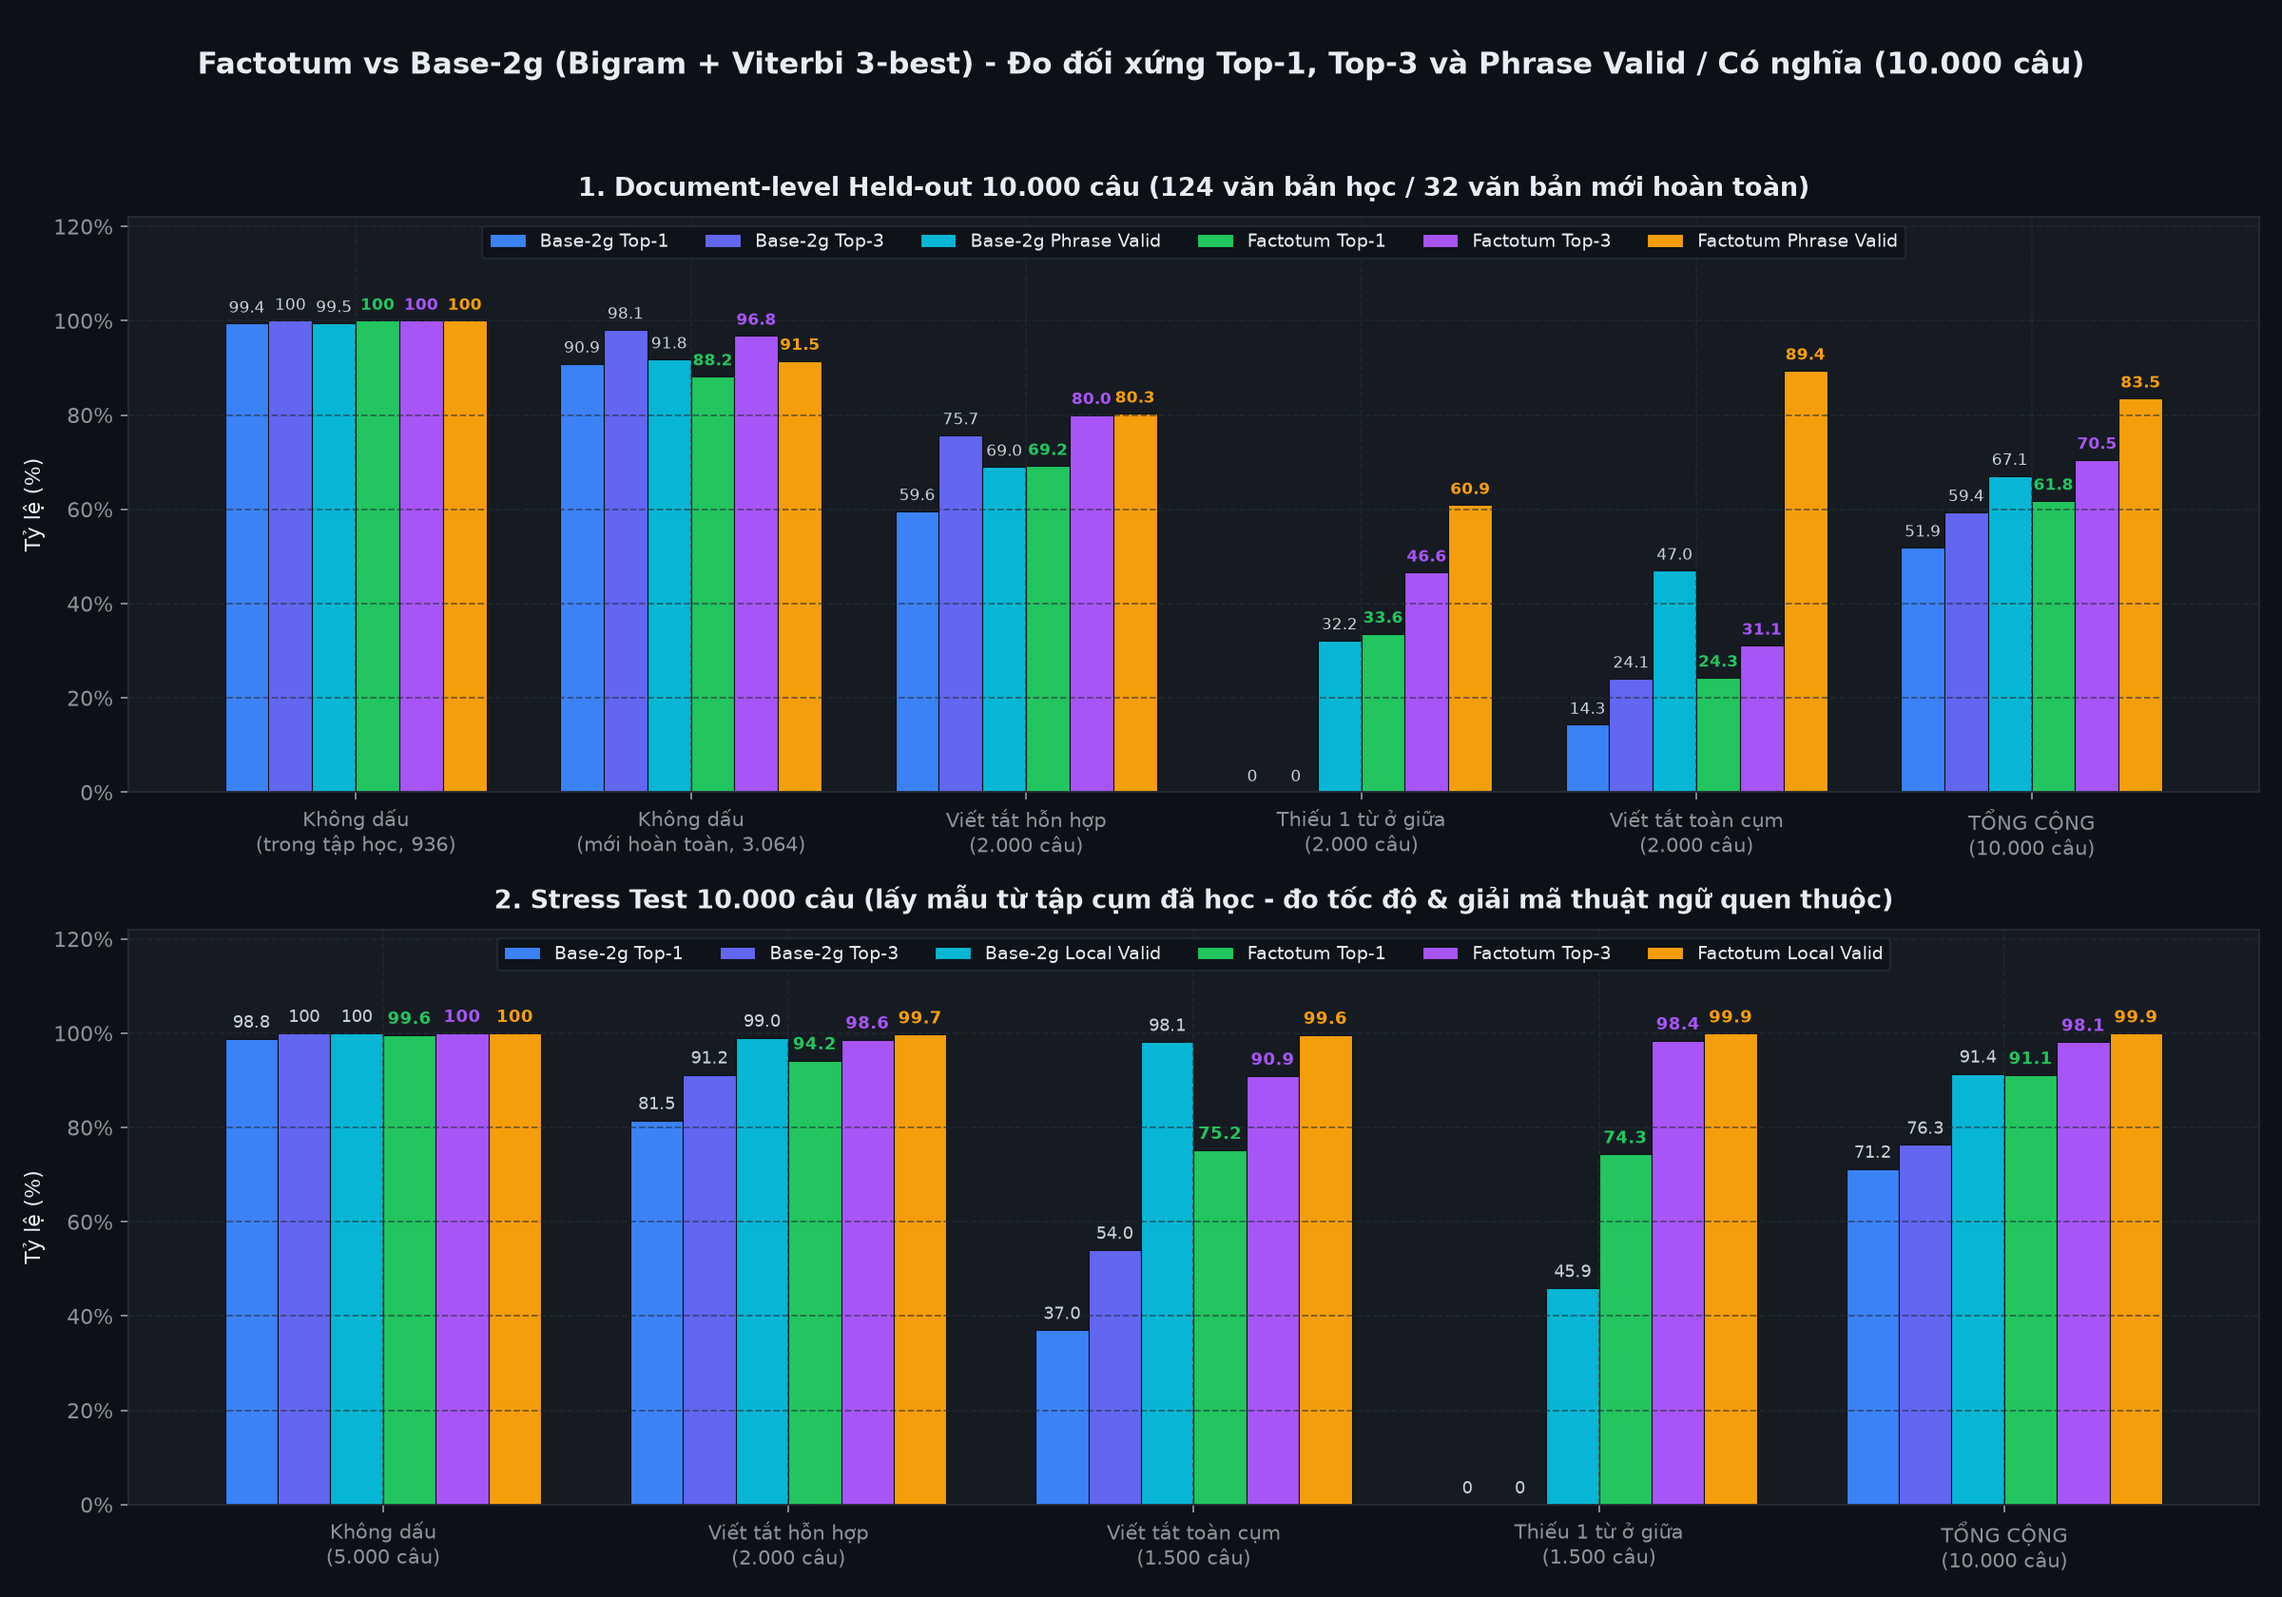
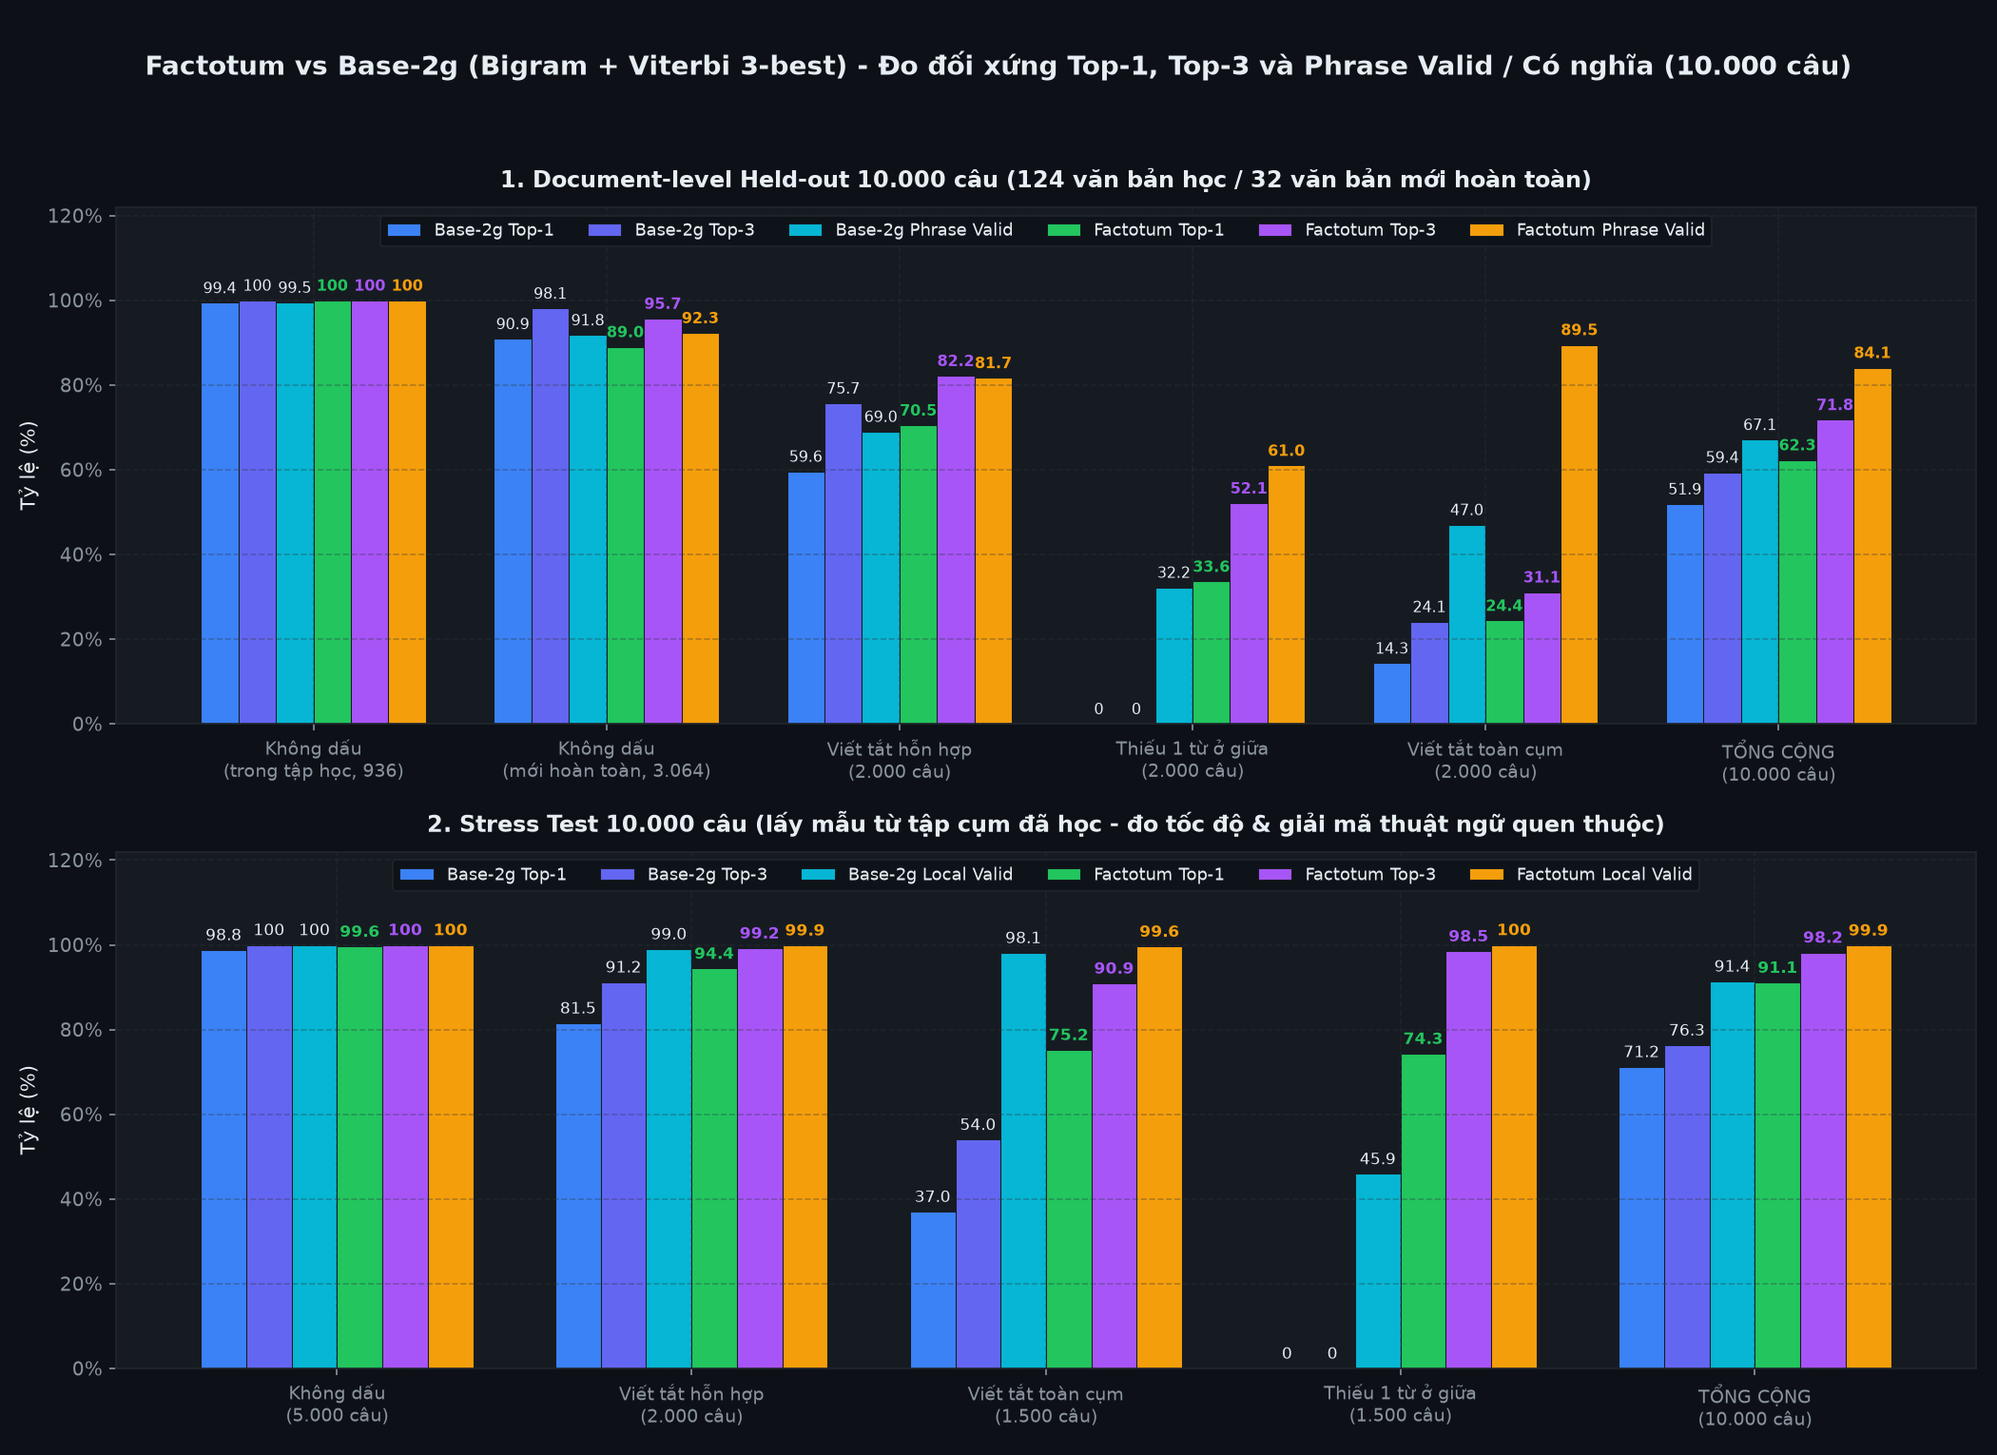
Sync README LLM comparison, 3 benchmark charts, and CHANGELOG v1.1.0

diff --git a/README.md b/README.md
@@ -231,14 +231,14 @@ Rút `1.000` câu độc nhất từ 32 văn bản kiểm tra chưa từng học
 
 | Nhóm câu hỏi | Số câu | Factotum (`T1 / PV`) | Gemini Hydrogen, zero-shot (`T1 / PV`) | Claude Sonnet 5.5, zero-shot (`T1 / PV`) |
 | :--- | :---: | :---: | :---: | :---: |
-| Không dấu mới hoàn toàn | 231 | **85,7% / 91,3%** (`96,1%` T3) | **85,7%** / 87,9% | 79,7% / 81,8% |
-| Viết tắt hỗn hợp | 228 | 64,9% / **79,4%** (`78,5%` T3) | 64,0% / 78,1% | **65,8%** / 78,9% |
-| Thiếu 1 từ ở giữa | 234 | **36,8% / 67,5%** (`48,7%` T3) | 33,3% / 59,0% | **36,8%** / 51,7% |
-| Viết tắt toàn cụm | 226 | **23,5% / 89,4%** (`31,9%` T3) | 6,6% / 43,8% | 2,2% / 29,6% |
-| **Tổng cộng (cụm trọn nghĩa)** | **919** | **52,8% / 81,8%** (`63,9%` T3) | **47,6% / 67,2%** | **46,2% / 60,6%** |
-| **Thời gian chạy 1.000 câu** | | **`3,35 giây`** (1 CPU offline, `1,29 MB`) | `~15 giây` (batch cloud) | `~20 phút` (cloud) |
+| Không dấu mới hoàn toàn | 231 | 84,4% / **90,0%** (`91,8%` T3) | **85,7%** / 87,9% | 79,7% / 81,8% |
+| Viết tắt hỗn hợp | 228 | 63,6% / **78,9%** (`75,4%` T3) | 64,0% / 78,1% | **65,8%** / **78,9%** |
+| Thiếu 1 từ ở giữa | 234 | 34,6% / **64,5%** (`51,7%` T3) | 33,3% / 59,0% | **36,8%** / 51,7% |
+| Viết tắt toàn cụm | 226 | **22,6% / 92,0%** (`30,5%` T3) | 6,6% / 43,8% | 2,2% / 29,6% |
+| **Tổng cộng (cụm trọn nghĩa)** | **919** | **51,4% / 81,3%** (`62,5%` T3) | **47,6% / 67,2%** | **46,2% / 60,6%** |
+| **Thời gian chạy 1.000 câu** | | **`3,04 giây`** (1 CPU offline, `1,29 MB`) | `~15 giây` (batch cloud) | `~20 phút` (cloud) |
 
-*Lưu ý công bằng:* tính trên cả `1.000` câu thô (gồm `81` câu cụt lủn mà tầng hậu kiểm của Factotum chủ động trả về câu gốc), Factotum vẫn dẫn đầu với `48,5%` Top-1 / `77,5%` PV so với Gemini (`46,4% / 66,3%`) và Claude (`45,4% / 60,2%`). Hai LLM chạy zero-shot (không RAG, không fine-tune trên 124 văn bản luật), trong khi Factotum đã học trực tiếp phân phối cụm từ của lĩnh vực pháp luật. Ở nhóm viết tắt hỗn hợp, Claude Sonnet 5.5 nhỉnh hơn `+0,9%` Top-1 (`65,8%` vs `64,9%`); ngược lại ở nhóm viết tắt toàn cụm chuyên ngành, Factotum đạt `23,5%` Top-1 và `89,4%` Phrase validity (so với `6,6% / 43,8%` của Gemini và `2,2% / 29,6%` của Claude) với chi phí tính toán nhỏ hơn nhiều lần.
+*Lưu ý công bằng:* trong tập `919` câu cố định giữ nguyên để so đối xứng với Gemini và Claude, có `26` câu kết thúc bằng từ `"của"` nay được tầng hậu kiểm của Factotum chủ động giữ nguyên câu gốc theo `output/dangling_end_words.txt`; nếu loại hết `107` cụm cụt lủn (còn `893` cụm trọn nghĩa), Factotum đạt **`52,9%` Top-1 / `82,8%` PV** (`64,3%` T3; riêng viết tắt hỗn hợp `66,2%` Top-1 và viết tắt toàn cụm `93,2%` PV). Tính trên cả `1.000` câu thô, Factotum vẫn dẫn đầu với `47,2%` Top-1 / `77,2%` PV so với Gemini (`46,4% / 66,3%`) và Claude (`45,4% / 60,2%`). Hai LLM chạy zero-shot (không RAG, không fine-tune trên 124 văn bản luật), trong khi Factotum đã học trực tiếp phân phối cụm từ của lĩnh vực pháp luật. Ở nhóm viết tắt toàn cụm chuyên ngành, Factotum vượt trội về cả Top-1 (`22,6%`) lẫn Phrase validity (`92,0%`) với chi phí tính toán nhỏ hơn nhiều lần.
 
 ### 4. Giới hạn của bộ đo
 

diff --git a/CHANGELOG.md b/CHANGELOG.md
@@ -2,6 +2,28 @@
 
 Định dạng theo [Keep a Changelog](https://keepachangelog.com/vi/1.1.0/), đánh số phiên bản theo [SemVer](https://semver.org/lang/vi/).
 
+## [1.1.0] - 2026-11-24
+
+Nâng cấp lõi tìm đường, tầng hậu kiểm, hỗ trợ chạy thử trực tiếp trên trình duyệt và bổ sung công cụ xây lại đồ thị.
+
+### Tính năng mới
+
+- **Demo web chạy trực tiếp trên trình duyệt (Pyodide WebAssembly):** xuất bản bản dùng thử tĩnh trên Hugging Face Space (`demo/build_space.py`, `demo/static/index.html`) không cần server backend.
+- **Xây lại đồ thị từ KnowledgeBase trong CLI:** thêm hàm `make_tree.rebuild_from_kb` và tùy chọn `[4] Cập nhật lại đồ thị & .ftm từ KnowledgeBase.txt` trong `src/app.py`.
+
+### Cải tiến
+
+- **Tìm đường Viterbi + Markov hai chiều (`search.py`, `graph_index.py`):** giữ trạng thái theo từng từ, bổ sung backoff `best_prev_zero` và kết hợp xác suất thuận + ngược (`p_fwd^0.85 * p_rev^0.15`), đẩy Held-out 10.000 câu lên `62,3%` Top-1 / `71,8%` Top-3 / `84,1%` Phrase validity (viết tắt hỗn hợp đạt `70,5%` Top-1).
+- **Nâng cấp tầng hậu kiểm (`reviewer.py`):** duyệt 1 lượt Top-5, sửa từ cầu nối `A - F' - B` bằng ngữ cảnh 2 đầu, mở nâng cấp 3-gram từ KB (`allow_kb_upgrade`) và xếp hạng lại Top-5 bằng mạch Markov.
+- **Chuẩn hóa xếp hạng 7 tầng (`models.py`):** gộp toàn bộ tiêu chí xếp hạng về `evidence_tier`, `rank_key` và `finalize_matches`; bổ sung fast-path O(1) cho câu khớp trực tiếp KB và giảm độ trễ câu dài nhiễu từ `172 ms` xuống `6,4 ms`.
+
+### Sửa lỗi
+
+- Đồng bộ bộ lọc dấu `_filter_unaccented_candidates` khi nạp từ file `.ftm` (`_load_from_json_data`), sửa lỗi gán sai dấu khi nạp mô hình đóng gói.
+- Sửa nhận diện số La Mã và từ viết tắt chương (`ch XXI`, `ch I`, `cg i`), giữ nguyên số thập phân (`0.4`) và đơn vị sau số (`0.4 mg`).
+- Chặn token lớp (`<num>`, `<code>`, `<date>`, `<roman>`) lọt vào bước chèn từ thiếu và chặn gộp nhầm chuỗi phụ âm dài (`dbbbb`, `ttchh`).
+- Giữ ổn định cách xử lý từ viết tắt OOV dài trong câu (`xkcbs`), sửa `NameError` ở `src/app.py`, escape ký tự `&` trong `run.bat` và `benchmark/run_benchmark.bat`, và bảo vệ `ProcessPoolExecutor` cho môi trường Pyodide.
+
 ## [1.0.0] - 2026-11-23
 
 Bản phát hành ổn định đầu tiên.
